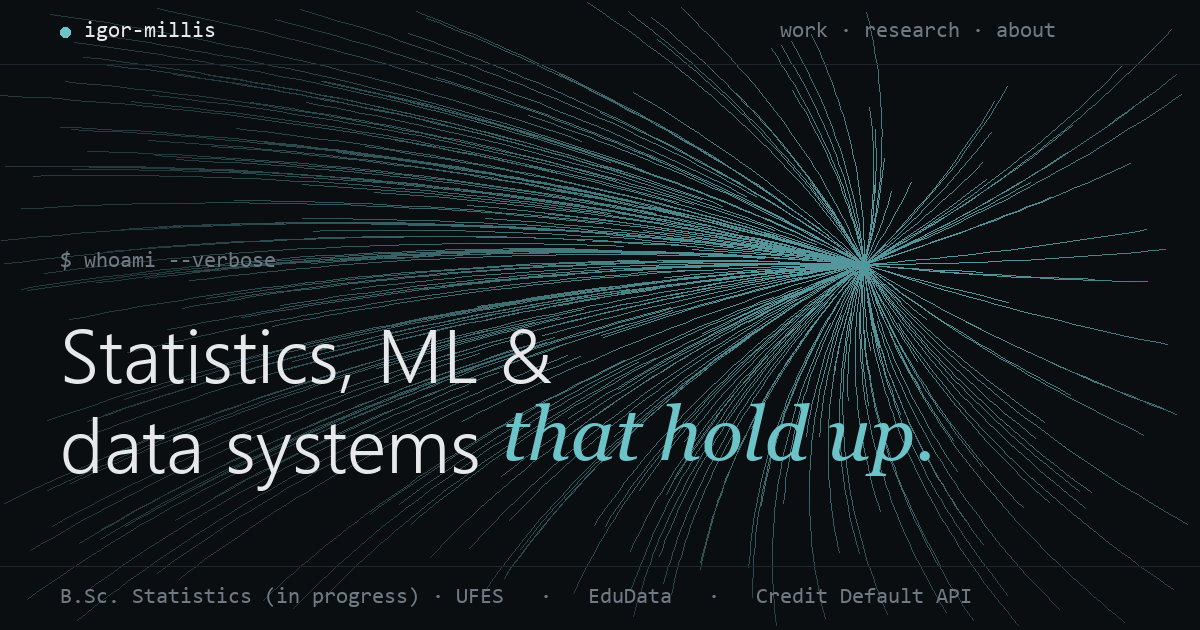
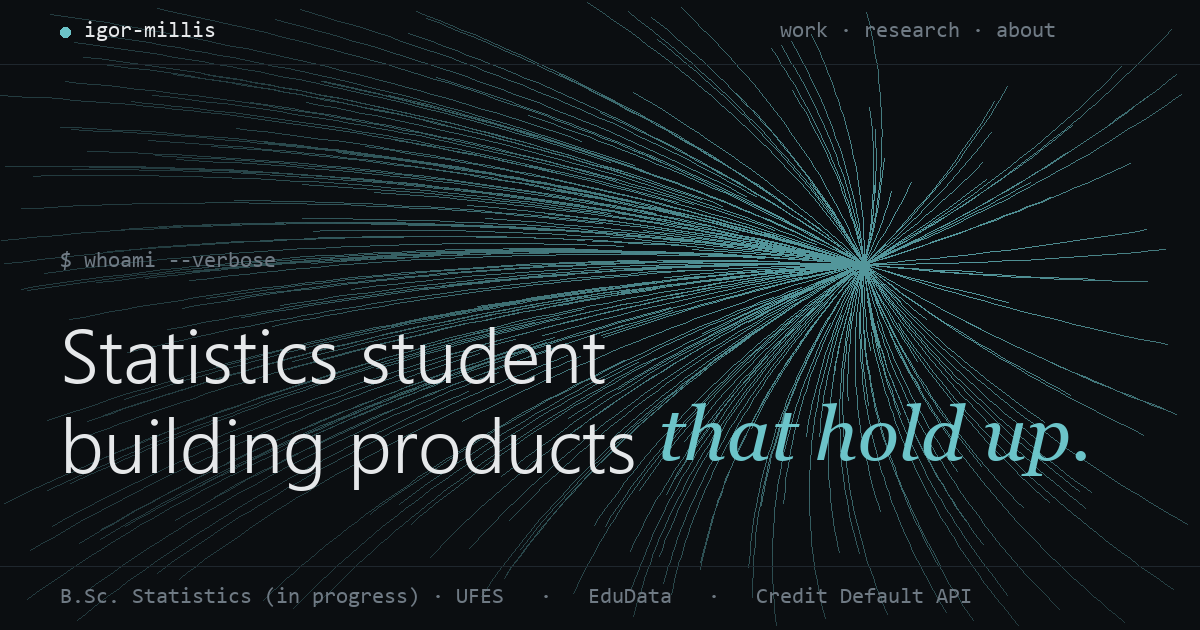
About: degree and courses, new experience section; new home headline
- Home: "Statistics student building products that hold up" (EN/PT), OG image updated.
- Education: only the B.Sc. (UFES, 2020–2027) and Data Science Academy courses.
- Experience: IJSN research internship, data consulting at Cetti (stock/orders/CRM
  platform with Lovable), Junior Enterprise Movement (CONSTAT, JUNIORES) 2022–2024.
- Stack: Lovable under apps.

Changed region(s): [[0.0308, 0.6333, 0.8942, 0.7841], [0.2775, 0.5127, 0.5242, 0.6333]]

diff --git a/static/css/main.css b/static/css/main.css
@@ -531,3 +531,16 @@ kbd { font: 400 11px var(--f-mono); border: 1px solid var(--line-strong); border
 [data-palette="chroma"] .focus:nth-child(4) { --fc: var(--c-sky); }
 [data-palette="chroma"] .focus:nth-child(5) { --fc: var(--c-green); }
 @media (max-width: 720px) { .focus-grid { grid-template-columns: minmax(0, 1fr); } }
+
+/* ---------- 20. About: experience ---------- */
+.exp { border-top: 1px solid var(--line); }
+.job { display: grid; grid-template-columns: minmax(0, 4fr) minmax(0, 7fr); gap: 28px; padding: 26px 0; border-bottom: 1px solid var(--line); }
+.job .when { font: 400 12px var(--f-mono); color: var(--text-3); }
+.job.now .when::before { content: "● "; color: var(--sc, var(--accent)); }
+.job h3 { font-size: 20px; margin: 6px 0 6px; }
+.job .roles { font: 400 12.5px/1.7 var(--f-mono); color: var(--sc, var(--accent)); margin: 0; }
+.job ul { margin: 0; padding-left: 1.1em; }
+.job li { color: var(--text-2); font-size: 15.5px; line-height: 1.65; margin-bottom: 0.5em; }
+.job li::marker { content: "— "; color: var(--sc, var(--accent)); }
+.job li strong { color: var(--text); font-weight: 500; }
+@media (max-width: 720px) { .job { grid-template-columns: minmax(0, 1fr); gap: 12px; } }

diff --git a/builder/pages.py b/builder/pages.py
@@ -203,8 +203,14 @@ def about(site: Site, lang: str) -> str:
         if e.get("href"):
             title = f'<a href="{site.url(lang, e["href"])}">{title} <span class="arr" aria-hidden="true">↗</span></a>'
         return (f'<div class="tl{" now" if e.get("now") else ""}"><span class="when">{esc(e["when"])}</span>'
-                f'<h3>{title}</h3><p class="place">{esc(e["place"])}</p><p>{esc(e["text"])}</p></div>')
+                f'<h3>{title}</h3><p class="place">{esc(e["place"])}</p>'
+                + (f'<p>{esc(e["text"])}</p>' if e.get("text") else "") + "</div>")
     edu = f'<p class="prose" style="margin-bottom:28px">{esc(ab["edu_intro"])}</p><div class="timeline">' + "".join(tl(e) for e in ab["edu"]) + "</div>"
+    exp = '<div class="exp">' + "".join(
+        f'<article class="job{" now" if x.get("now") else ""}"><div class="job-h"><span class="when">{esc(x["when"])}</span>'
+        f'<h3>{esc(x["org"])}</h3><p class="roles">{" · ".join(esc(r) for r in x["roles"])}</p></div>'
+        f'<ul>{"".join(f"<li>{i}</li>" for i in x["items"])}</ul></article>'
+        for x in ab["exp"]) + "</div>"
     focus = '<div class="focus-grid">' + "".join(
         f'<a class="focus" href="{site.url(lang, f["href"])}"><span class="fn">{i + 1:02d}</span>'
         f'<h3>{esc(f["title"])}</h3><p>{esc(f["text"])}</p><span class="proof">→ {esc(f["proof"])}</span></a>'
@@ -221,9 +227,10 @@ def about(site: Site, lang: str) -> str:
         page_head(ab["label"], ab["h1"])
         + intro
         + section(f"<b>01.1</b> / {esc(ab['edu_label'])}", esc(ab["edu_title"]), edu)
-        + section(f"<b>01.2</b> / {esc(ab['focus_label'])}", esc(ab["focus_title"]), focus)
-        + section(f"<b>01.3</b> / {esc(ab['stack_label'])}", esc(ab["stack_title"]), stack)
-        + section(f"<b>01.4</b> / {esc(ab['contact_label'])}", esc(ab["contact_title"]), links, id="contact")
+        + section(f"<b>01.2</b> / {esc(ab['exp_label'])}", esc(ab["exp_title"]), exp, id="experience")
+        + section(f"<b>01.3</b> / {esc(ab['focus_label'])}", esc(ab["focus_title"]), focus)
+        + section(f"<b>01.4</b> / {esc(ab['stack_label'])}", esc(ab["stack_title"]), stack)
+        + section(f"<b>01.5</b> / {esc(ab['contact_label'])}", esc(ab["contact_title"]), links, id="contact")
     )
     return page(site, lang, "about", title=ab["title"], description=ab["description"], body=body,
                 jsonld=person_ld(site, lang), og_type="profile")

diff --git a/tools/make_og.py b/tools/make_og.py
@@ -39,9 +39,9 @@ d.ellipse([60, 27, 70, 37], fill=ACC)
 d.text((84, 20), "igor-millis", font=mono, fill=TEXT)
 d.text((W - 420, 20), "work · research · about", font=mono, fill=DIM)
 d.text((60, 250), "$ whoami --verbose", font=mono, fill=DIM)
-d.text((60, 300), "Statistics, ML &", font=sans, fill=TEXT)
-d.text((60, 390), "data systems ", font=sans, fill=TEXT)
-w = d.textlength("data systems ", font=sans)
+d.text((60, 300), "Statistics student", font=sans, fill=TEXT)
+d.text((60, 390), "building products ", font=sans, fill=TEXT)
+w = d.textlength("building products ", font=sans)
 d.text((60 + w, 390), "that hold up.", font=serif, fill=ACC)
 d.line([(0, H - 64), (W, H - 64)], fill=LINE)
 d.text((60, H - 44), "B.Sc. Statistics (in progress) · UFES   ·   EduData   ·   Credit Default API", font=mono, fill=DIM)
